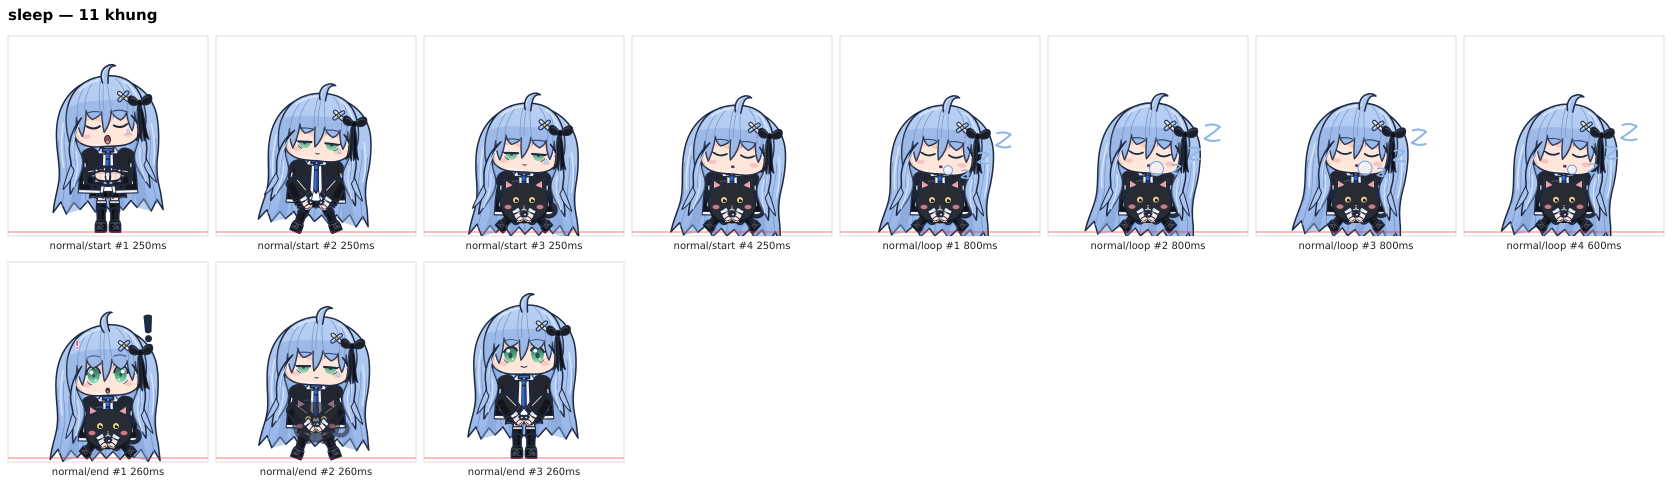
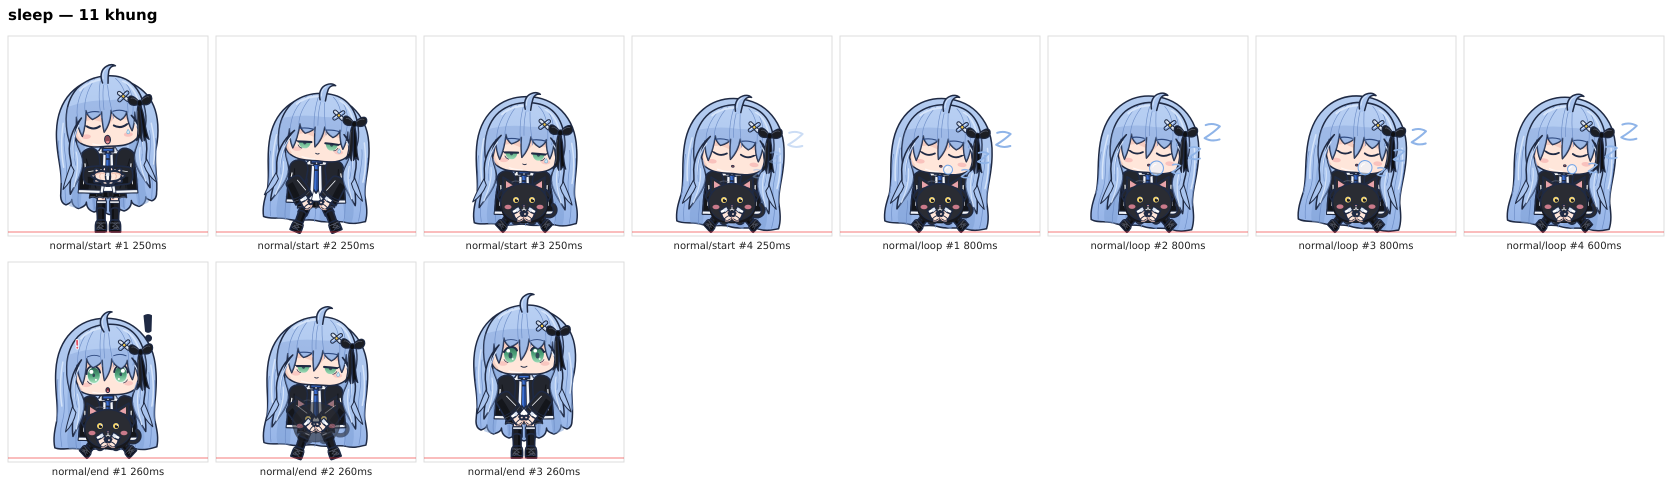
art(action): sleep/pat_head chỉnh vòng 2

diff --git a/tools/rig/actions/sleep.js b/tools/rig/actions/sleep.js
@@ -14,14 +14,14 @@ const hug = (k = 1) => ({
   upper_arm_r: { r: r1(20 * k) },  forearm_r: { r: r1(18 * k) },  hand_r: { r: r1(-8 * k) },
 });
 const HUGZ = {};
-const SIT = 44;
+const SIT = 43;
 
 function sitBones(o = {}) {
   return {
     hips: { y: SIT + (o.hipsDy || 0) },
     chest: { sy: o.sy || 1, sx: o.sx || 1, r: o.chestR || 0 },
     head: { r: o.headR === undefined ? 5 : o.headR, y: o.headY === undefined ? 8 : o.headY, x: o.headX === undefined ? 0 : o.headX },
-    hair_back: { r: o.hb || 0 }, sidelock_l: { r: o.sl || 0 }, sidelock_r: { r: -(o.sl || 0) },
+    hair_back: { r: o.hb || 0, y: -16 }, sidelock_l: { r: o.sl || 0, y: -12 }, sidelock_r: { r: -(o.sl || 0), y: -12 },
     ahoge: { r: o.ah === undefined ? 10 : o.ah }, ribbon: { r: o.rb || 0 },
     ...legs(1), ...hug(1),
   };
@@ -44,7 +44,7 @@ const loop = [0, 1, 2, 3].map((i) => {
   return {
     ms: MSL[i], face: 'sleep', z: HUGZ,
     bones: sitBones({ sy: b, sx: r1(1 - (b - 1) * 0.5), headY: 8 + (b - 1) * -60 * 0.5 + 0, hb: r1(1.2 * lag), sl: r1(-1.6 * lag), ah: r1(10 + 2 * lag), rb: r1(1.5 * lag) }),
-    swap: { hand_l: 'hold', hand_r: 'hold' },
+    swap: { hand_l: 'hold', hand_r: 'hold', hair_back: 'sit' },
     show: [PLUSH(0, r1(30 - (b - 1) * 40))].concat(FX[i]),
   };
 });
@@ -59,23 +59,23 @@ const start = [
   { ms: 250, face: 'sleepy',
     bones: { hips: { y: 20 }, chest: { sy: 0.98, r: 1 }, head: { r: 4, y: 4 }, ahoge: { r: 8 }, hair_back: { r: -1.5 }, sidelock_l: { r: 2 }, sidelock_r: { r: -2 },
       ...legs(0.5), upper_arm_l: { r: -8 }, forearm_l: { r: -26 }, upper_arm_r: { r: 8 }, forearm_r: { r: 26 } },
-    swap: { hand_l: 'hold', hand_r: 'hold' }, show: [PLUSH(0, 24, 0.0)] },
+    swap: { hand_l: 'hold', hand_r: 'hold', hair_back: 'sit' }, show: [PLUSH(0, 24, 0.0)] },
   { ms: 250, face: 'sleepy', z: HUGZ,
     bones: { ...sitBones({ headR: 3, headY: 4, hb: -2, sl: 2.5, ah: 8, hipsDy: 0 }) },
-    swap: { hand_l: 'hold', hand_r: 'hold' }, show: [PLUSH(0, 30)] },
-  { ms: 250, face: 'sleep', z: HUGZ, bones: L0.bones, swap: L0.swap, show: [PLUSH(0, 30)] },
+    swap: { hand_l: 'hold', hand_r: 'hold', hair_back: 'sit' }, show: [PLUSH(0, 30)] },
+  { ms: 250, face: 'sleep', z: HUGZ, bones: L0.bones, swap: L0.swap, show: [PLUSH(0, 30), { ...Z('zzz', 0, 0), opacity: 0.45 }] },
 ];
 
 // ---- end: giật mình -> mơ màng -> đứng dậy, mèo biến mất ở khung cuối
 const end = [
   { ms: 260, face: 'surprised', z: HUGZ,
     bones: sitBones({ headR: -2, headY: 0, sy: 1.02, hb: 2, sl: -3, ah: -10 }),
-    swap: { hand_l: 'hold', hand_r: 'hold' },
+    swap: { hand_l: 'hold', hand_r: 'hold', hair_back: 'sit' },
     show: [PLUSH(0, 30), { id: 'fx_surprise', file: 'fx/surprise.svg', bone: 'head', z: 215 }] },
   { ms: 260, face: 'sleepy', z: HUGZ,
     bones: { hips: { y: 18 }, chest: { sy: 0.99 }, head: { r: 3, y: 3 }, ahoge: { r: 8 }, hair_back: { r: -1 }, sidelock_l: { r: 1.5 }, sidelock_r: { r: -1.5 },
       ...legs(0.45), upper_arm_l: { r: -10 }, forearm_l: { r: -36 }, upper_arm_r: { r: 10 }, forearm_r: { r: 36 } },
-    swap: { hand_l: 'hold', hand_r: 'hold' }, show: [PLUSH(0, 16, 0.6)] },
+    swap: { hand_l: 'hold', hand_r: 'hold', hair_back: 'sit' }, show: [PLUSH(0, 16, 0.6)] },
   { ms: 260, face: 'normal', hide: ['plush'],
     bones: { hips: { y: 0 }, chest: { sy: 1 }, head: { r: 0, y: 0 },
       ...standArms },

diff --git a/tools/rig/actions/pat_head.js b/tools/rig/actions/pat_head.js
@@ -23,7 +23,7 @@ function cfgMood(c) {
         head: { r: r1(dir[i] * (c.headR) ), y: r1(dip[i] * c.dipK), x: r1(dir[i] * 0.8) },
         hair_back: { r: r1(-2.2 * dir[i] + 1.2 * lag) },
         sidelock_l: { r: r1(3 * lag) }, sidelock_r: { r: r1(-3 * lag) },
-        ahoge: { r: r1(c.ahoge + dir[i] * 13) },
+        ahoge: { r: r1(c.ahoge + dir[i] * 18) },
         ribbon: { r: r1(-3 * dir[i]) },
         ...ARMS(1 + 0.04 * (i % 2)),
       },
@@ -64,7 +64,7 @@ function cfgMood(c) {
 module.exports = {
   action: 'pat_head',
   moods: {
-    normal: cfgMood({ loopFace: ['closed_happy', 'closed_happy', 'closed_happy', 'closed_happy'], bounce: 0, headR: 3, dipK: 1, ahoge: 0, blush: true, hearts: false }),
-    happy: cfgMood({ loopFace: ['closed_happy', 'laugh', 'closed_happy', 'laugh'], bounce: -1.5, headR: 3.5, dipK: 1.3, ahoge: -4, blush: false, hearts: true }),
+    normal: cfgMood({ loopFace: ['closed_happy', 'closed_happy', 'closed_happy', 'closed_happy'], bounce: 0, headR: 5.5, dipK: 1, ahoge: 0, blush: true, hearts: false }),
+    happy: cfgMood({ loopFace: ['closed_happy', 'laugh', 'closed_happy', 'laugh'], bounce: -1.5, headR: 5.5, dipK: 1.3, ahoge: -4, blush: false, hearts: true }),
   },
 };
